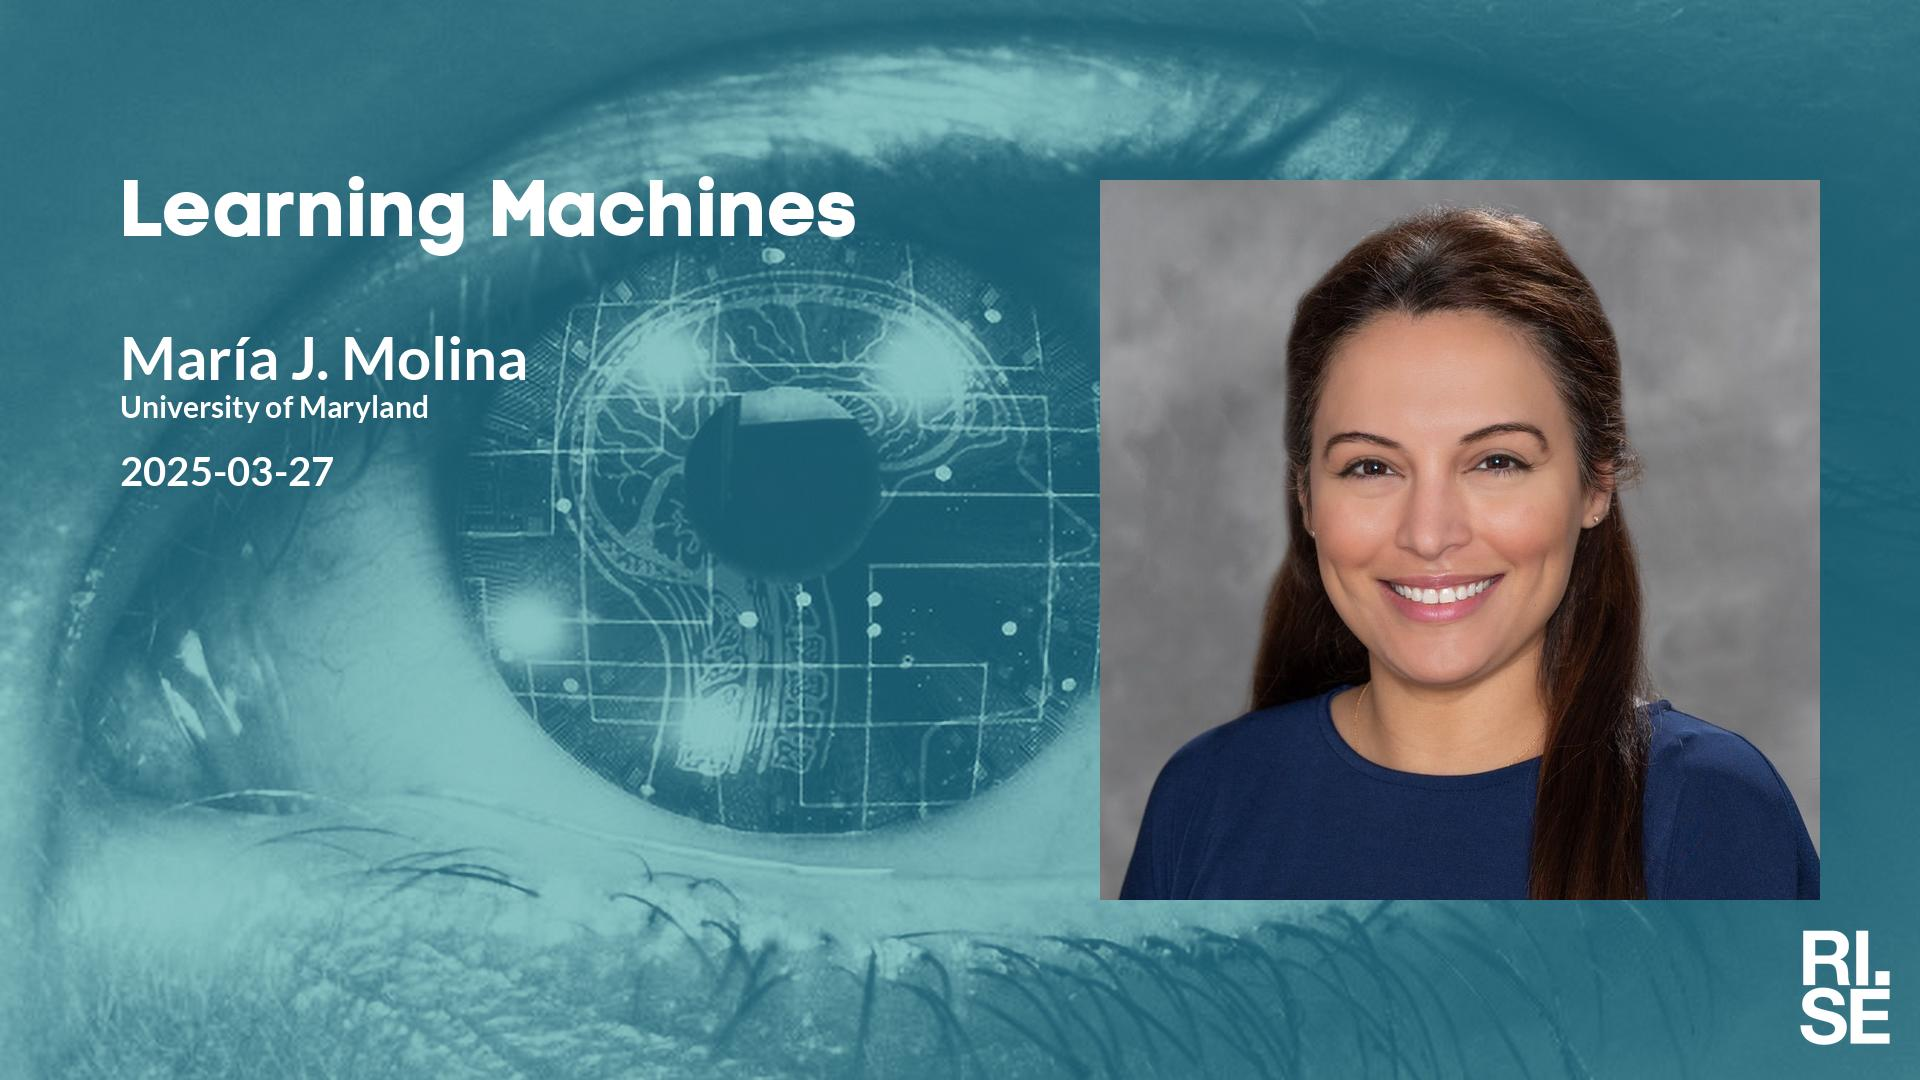
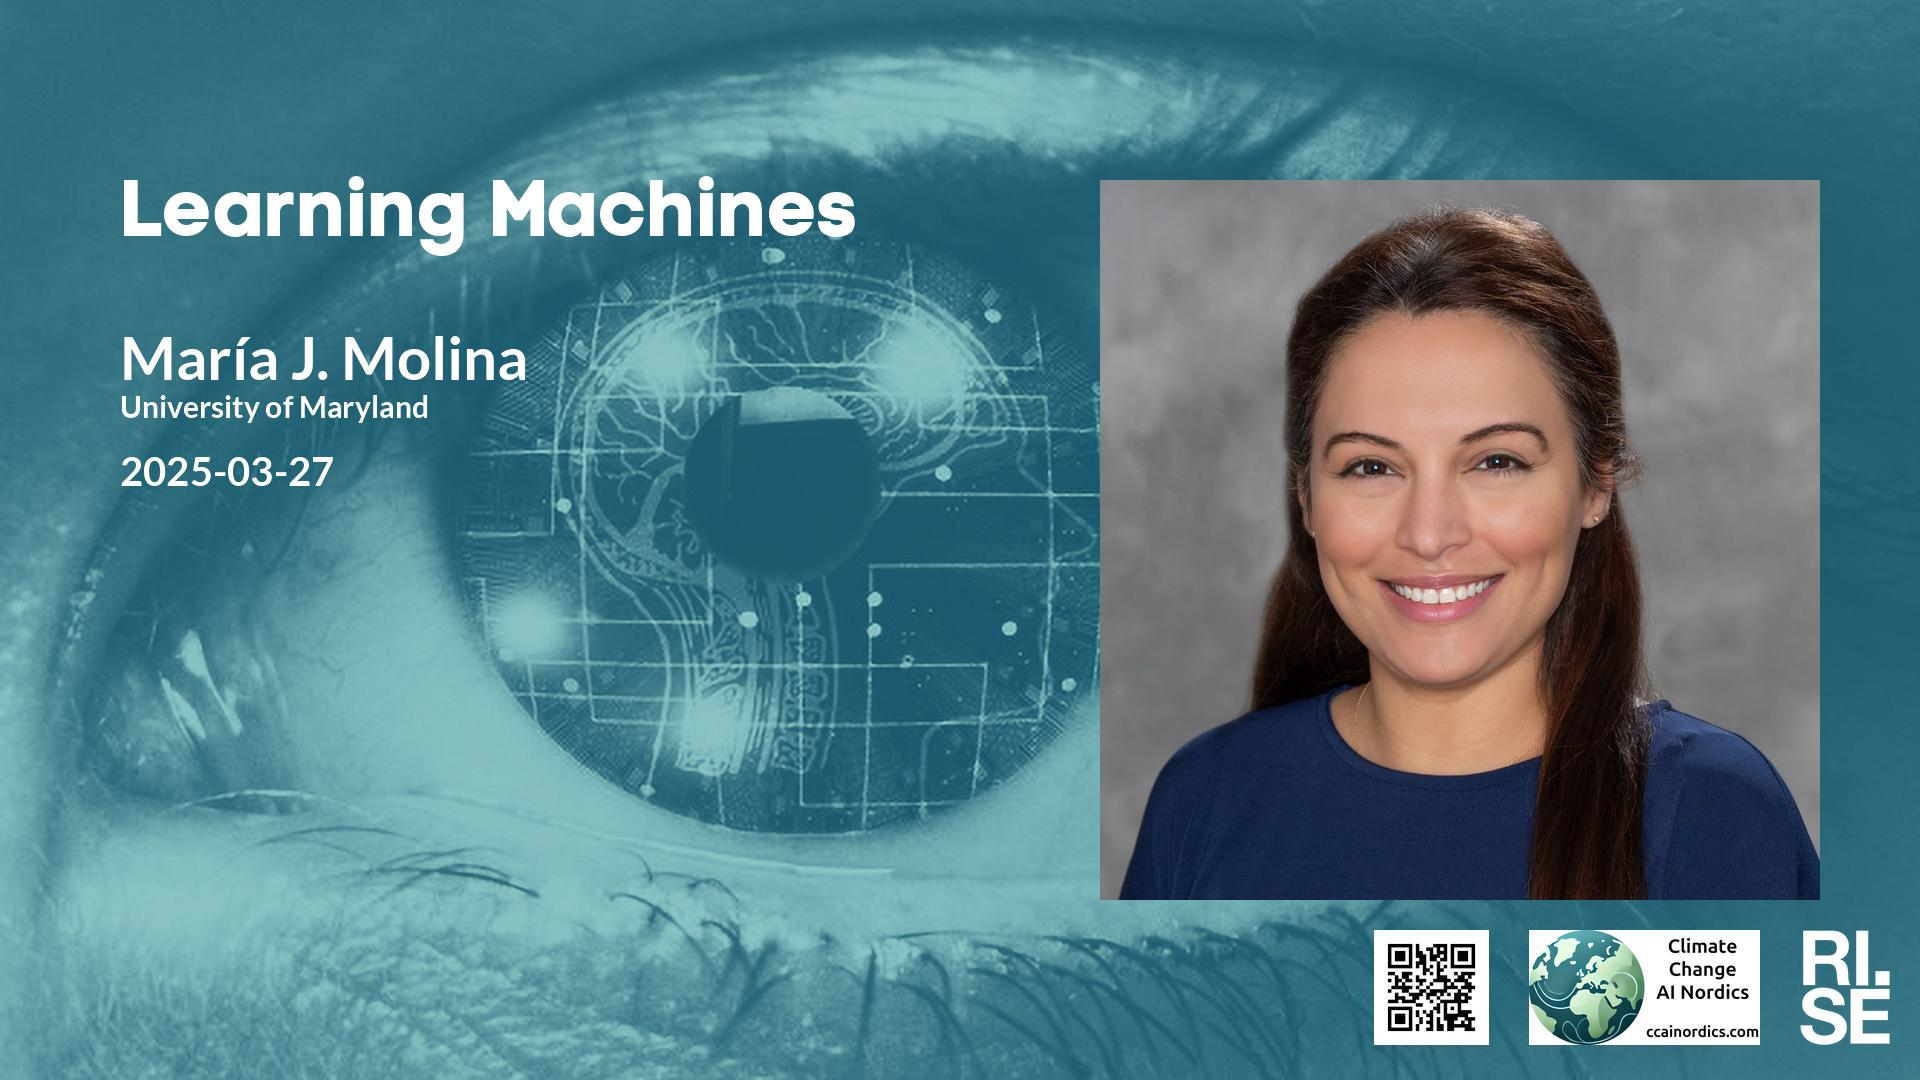
Updated plan on web site.

Changed region(s): [[0.7188, 0.8556, 0.9375, 0.9778]]

diff --git a/lm/2025-03-27.md b/lm/2025-03-27.md
@@ -5,6 +5,8 @@ metatags: "<meta name=\"robots\" content=\"noindex,nofollow\" />"
  
 Welcome to this week's Learning Machines seminar.
 
+This seminar is a collaboration between RISE and Climate Change AI Nordics -- [ccainordics.com](https://ccainordics.com/).
+
 **Title:** N/A
 
 **Speaker:** María J. Molina, University of Maryland
